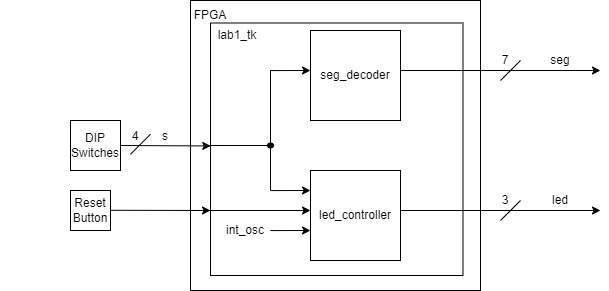
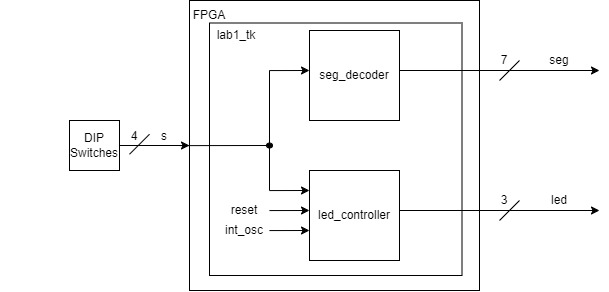
Built site for gh-pages

Changed region(s): [[0.0936, 0.0309, 0.9984, 1.0]]

diff --git a/blog.html b/blog.html
@@ -202,7 +202,7 @@ window.Quarto = {
 
 <div class="quarto-listing quarto-listing-container-default" id="listing-listing">
 <div class="list quarto-listing-default">
-<div class="quarto-post image-right" data-index="0" data-listing-date-sort="1725260400000" data-listing-file-modified-sort="1725511541428" data-listing-date-modified-sort="NaN" data-listing-reading-time-sort="1" data-listing-word-count-sort="193">
+<div class="quarto-post image-right" data-index="0" data-listing-date-sort="1725260400000" data-listing-file-modified-sort="1725572722013" data-listing-date-modified-sort="NaN" data-listing-reading-time-sort="1" data-listing-word-count-sort="193">
 <div class="thumbnail">
 <p><a href="./posts/lab1.html" class="no-external"></a></p><a href="./posts/lab1.html" class="no-external">
 <div class="listing-item-img-placeholder card-img-top" >&nbsp;</div>
@@ -230,7 +230,7 @@ Troy Kaufman
 </a>
 </div>
 </div>
-<div class="quarto-post image-right" data-index="1" data-categories="reflection,labreport" data-listing-date-sort="1725001200000" data-listing-file-modified-sort="1725068386672" data-listing-date-modified-sort="NaN" data-listing-reading-time-sort="1" data-listing-word-count-sort="68">
+<div class="quarto-post image-right" data-index="1" data-categories="reflection,labreport" data-listing-date-sort="1725001200000" data-listing-file-modified-sort="1725572722013" data-listing-date-modified-sort="NaN" data-listing-reading-time-sort="1" data-listing-word-count-sort="68">
 <div class="thumbnail">
 <p><a href="./posts/week1_reflections.html" class="no-external"></a></p><a href="./posts/week1_reflections.html" class="no-external">
 <div class="listing-item-img-placeholder card-img-top" >&nbsp;</div>
@@ -258,7 +258,7 @@ Troy Kaufman
 </a>
 </div>
 </div>
-<div class="quarto-post image-right" data-index="2" data-categories="reflection,labreport" data-listing-date-sort="1724742000000" data-listing-file-modified-sort="1725392516990" data-listing-date-modified-sort="NaN" data-listing-reading-time-sort="1" data-listing-word-count-sort="6">
+<div class="quarto-post image-right" data-index="2" data-categories="reflection,labreport" data-listing-date-sort="1724742000000" data-listing-file-modified-sort="1725572722013" data-listing-date-modified-sort="NaN" data-listing-reading-time-sort="1" data-listing-word-count-sort="6">
 <div class="thumbnail">
 <p><a href="./posts/first-post.html" class="no-external"></a></p><a href="./posts/first-post.html" class="no-external">
 <div class="listing-item-img-placeholder card-img-top" >&nbsp;</div>

diff --git a/labs.html b/labs.html
@@ -202,7 +202,7 @@ window.Quarto = {
 
 <div class="quarto-listing quarto-listing-container-default" id="listing-listing">
 <div class="list quarto-listing-default">
-<div class="quarto-post image-right" data-index="0" data-listing-date-sort="1725346800000" data-listing-file-modified-sort="1725561513841" data-listing-date-modified-sort="NaN" data-listing-reading-time-sort="4" data-listing-word-count-sort="654">
+<div class="quarto-post image-right" data-index="0" data-listing-date-sort="1725346800000" data-listing-file-modified-sort="1725572722013" data-listing-date-modified-sort="NaN" data-listing-reading-time-sort="4" data-listing-word-count-sort="654">
 <div class="thumbnail">
 <p><a href="./labs/lab1/lab1.html" class="no-external"></a></p><a href="./labs/lab1/lab1.html" class="no-external">
 <p class="card-img-top"><img src="labs\lab1\images\lab1_image_full.jpg"  class="thumbnail-image card-img"/></p>
@@ -230,7 +230,7 @@ Troy Kaufman
 </a>
 </div>
 </div>
-<div class="quarto-post image-right" data-index="1" data-listing-date-sort="1725260400000" data-listing-file-modified-sort="1725429811938" data-listing-date-modified-sort="NaN" data-listing-reading-time-sort="1" data-listing-word-count-sort="1">
+<div class="quarto-post image-right" data-index="1" data-listing-date-sort="1725260400000" data-listing-file-modified-sort="1725572722013" data-listing-date-modified-sort="NaN" data-listing-reading-time-sort="1" data-listing-word-count-sort="1">
 <div class="thumbnail">
 <p><a href="./labs/lab2/lab2.html" class="no-external"></a></p><a href="./labs/lab2/lab2.html" class="no-external">
 <div class="listing-item-img-placeholder card-img-top" >&nbsp;</div>

diff --git a/labs/lab1/lab1.html b/labs/lab1/lab1.html
@@ -199,7 +199,7 @@ ul.task-list li input[type="checkbox"] {
 <figcaption>System Schematic</figcaption>
 </figure>
 </div>
-<p>The DIP switches, push button, and LEDs with current limiting resistors are shown in Prof.&nbsp;Brake’s schematic for the development board linked <a href="https://hmc-e155.github.io/assets/doc/E155%20Development%20Board%20Schematic.pdf">here</a>.</p>
+<p>The DIP switches, reset button, and LEDs with current limiting resistors are shown in Prof.&nbsp;Brake’s schematic for the development board linked <a href="https://hmc-e155.github.io/assets/doc/E155%20Development%20Board%20Schematic.pdf">here</a>.</p>
 <p>As for the blinking LED (led_controller), a counter was used to delay setting the LED. The calculation is the following:</p>
 <div class="quarto-figure quarto-figure-center">
 <figure class="figure">
